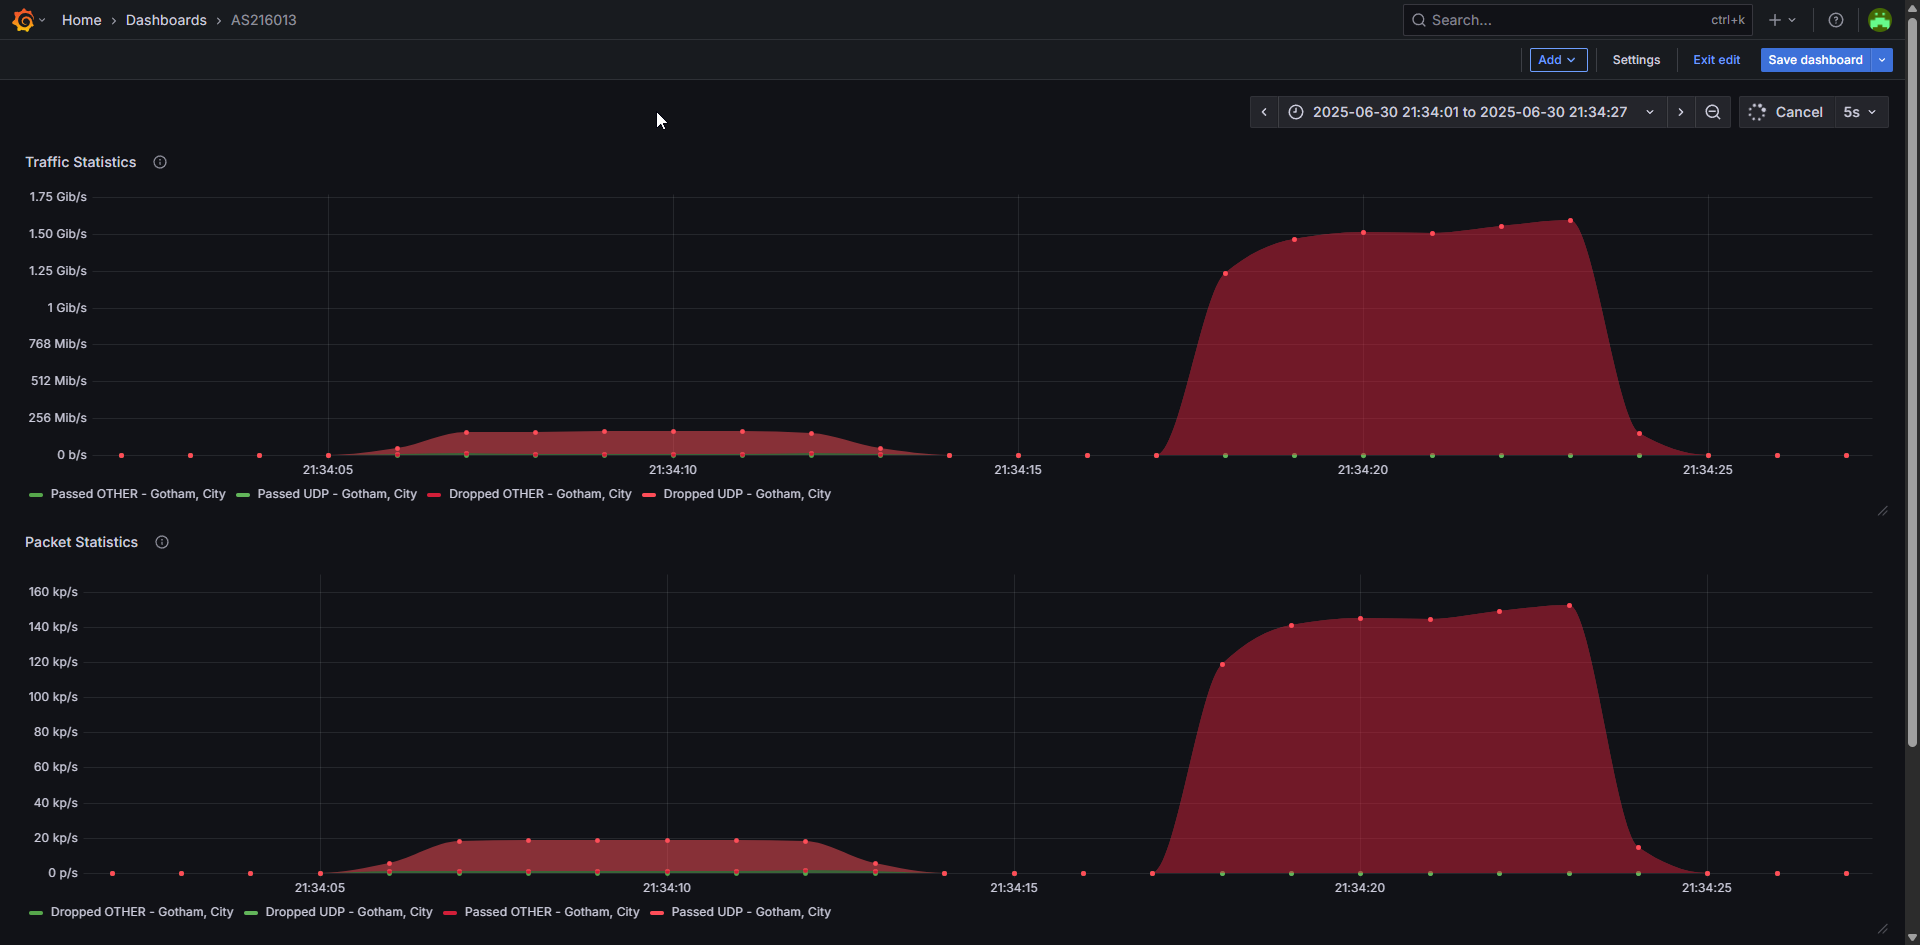
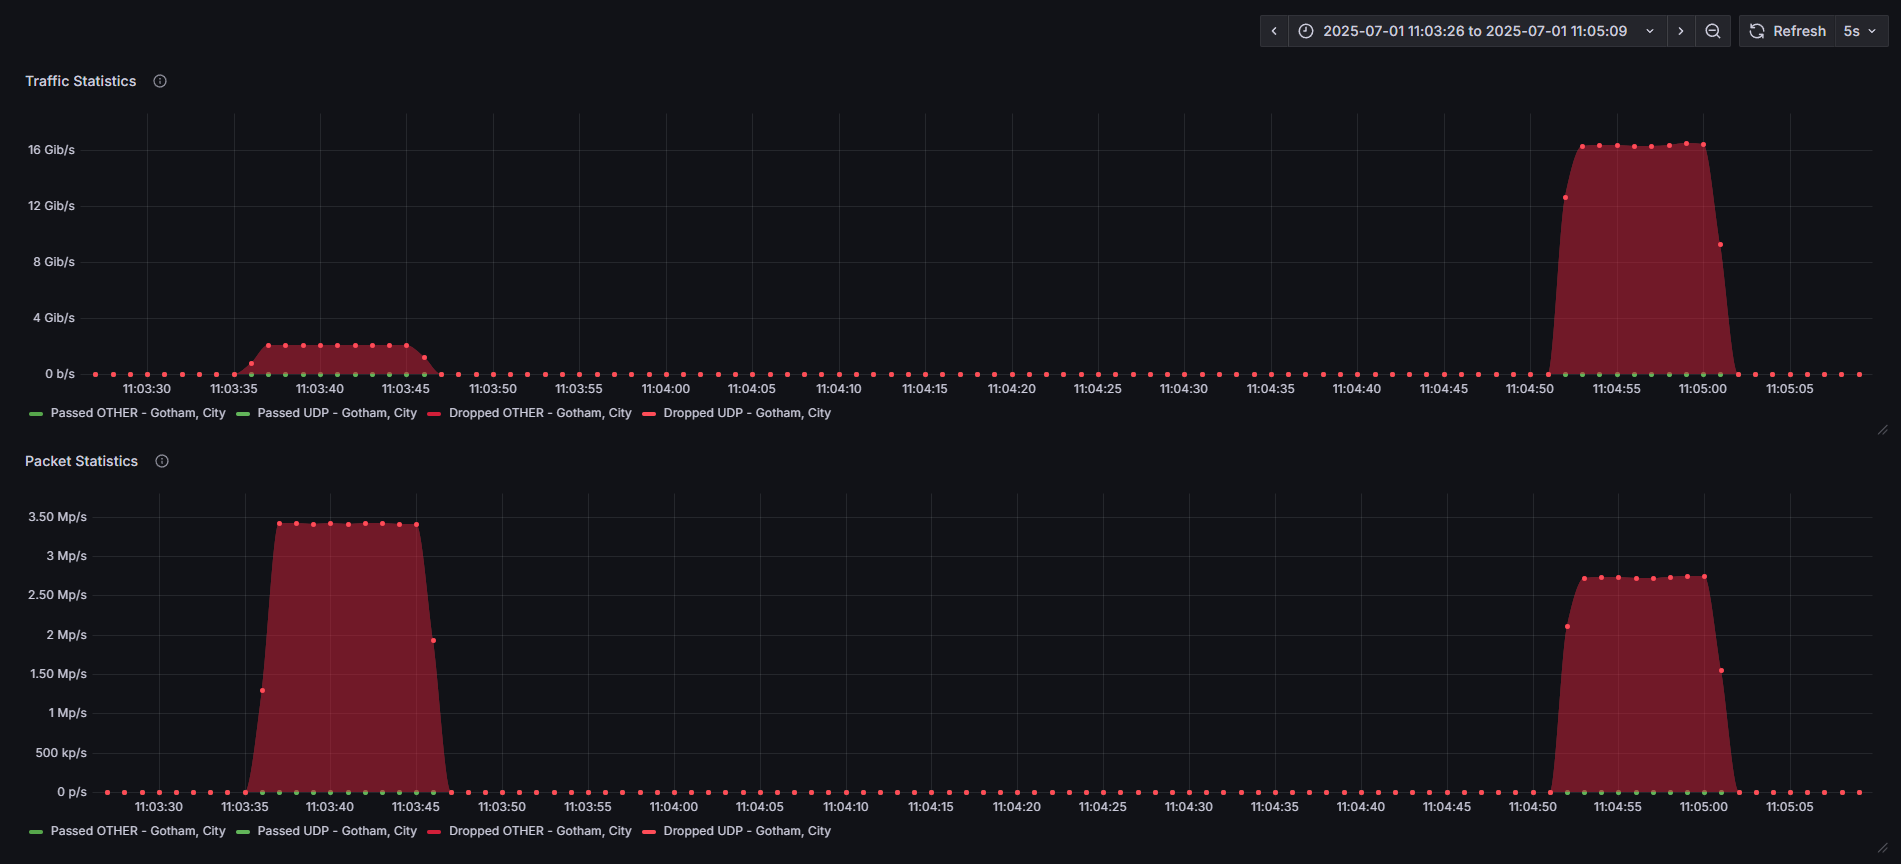
Fixed /s analytics display and changed screenshot
There were 2 resets so sometimes it showed 0
Also you can configure interval to reset now
changed ss cuz ppl said traffic was weak

diff --git a/analytics/init.go b/analytics/init.go
@@ -11,7 +11,11 @@ import (
 
 // Init spawns routines to collect and expose BPF statistics.
 // Metrics have been simplified to reflect the new map layout: UDP and OTHER passes, and UDP drops.
-func Init(Collection *ebpf.Collection, bind string, prometheus bool, pop string) {
+func Init(Collection *ebpf.Collection, bind string, prometheus bool, pop string, intervalSec int) {
+
+	if intervalSec > 0 {
+		StatIntervalSec = intervalSec
+	}
 
 	//Traffic Analytics and Packet Counter logic should probably be reworked but what do you expect, this is open source.
 
@@ -37,17 +41,19 @@ func Init(Collection *ebpf.Collection, bind string, prometheus bool, pop string)
 
 	log.Printf("\033[36m[BEDROCK-XDP] \033[0mStarting Analytics...")
 	SetCollection(Collection)
-	go StartBPS(Collection)
-	go StartPPS(Collection)
 
-	go StartDroppedBPS(Collection)
-	go StartDroppedPPS(Collection)
+	// initialise map references only (no goroutine resets)
+	StartBPS(Collection)
+	StartPPS(Collection)
+	StartDroppedBPS(Collection)
+	StartDroppedPPS(Collection)
 
 	if prometheus {
 		StartPrometheus(bind)
 	}
 
 	ticker := time.NewTicker(1 * time.Second)
+	counterTick := 0
 	for range ticker.C {
 
 		// Gather pass statistics
@@ -101,5 +107,16 @@ func Init(Collection *ebpf.Collection, bind string, prometheus bool, pop string)
 		bcVal2 := GetBlockedCount()
 		log.Printf("\n")
 		log.Printf("\033[36m[ANALYTICS] \033[0mBlocked IPs: \033[36m%d\033[0m\n", bcVal2)
+
+		// After producing metrics, reset counters for next window if we've
+		// reached StatIntervalSec seconds since last reset.
+		counterTick++
+		if counterTick >= StatIntervalSec {
+			ResetPassBPS()
+			ResetPassPPS()
+			ResetDropBPS()
+			ResetDropPPS()
+			counterTick = 0
+		}
 	}
 }

diff --git a/analytics/pass_bps.go b/analytics/pass_bps.go
@@ -1,8 +1,6 @@
 package analytics
 
 import (
-	"time"
-
 	xdp "bedrock-xdp/xdp_utils"
 
 	"github.com/cilium/ebpf"
@@ -18,14 +16,11 @@ var (
 func StartBPS(Collection *ebpf.Collection) {
 	udpBitMap = xdp.GetMap("udp_pass_bps", Collection)
 	otherBitMap = xdp.GetMap("other_pass_bps", Collection)
-
-	ticker := time.NewTicker(1 * time.Second)
-	for range ticker.C {
-		resetBitCount()
-	}
 }
 
-func resetBitCount() {
+// ResetPassBPS zeroes totals and per-IP buckets. Call once per interval **after**
+// reading the stats so analytics never observes a just-reset value.
+func ResetPassBPS() {
 	var resetCount uint64 = 0
 	var totalKey uint32 = 0
 
@@ -43,10 +38,10 @@ func resetBitCount() {
 func GetTotalBPS(protocol string) uint64 {
 	switch protocol {
 	case "udp":
-		return getMapTotalCount(udpBitMap)
+		return getMapTotalCount(udpBitMap) / uint64(StatIntervalSec)
 	case "other":
-		return getMapTotalCount(otherBitMap)
+		return getMapTotalCount(otherBitMap) / uint64(StatIntervalSec)
 	default:
-		return getMapTotalCount(udpBitMap) + getMapTotalCount(otherBitMap)
+		return (getMapTotalCount(udpBitMap) + getMapTotalCount(otherBitMap)) / uint64(StatIntervalSec)
 	}
 }

diff --git a/analytics/pass_pps.go b/analytics/pass_pps.go
@@ -1,8 +1,6 @@
 package analytics
 
 import (
-	"time"
-
 	xdp "bedrock-xdp/xdp_utils"
 
 	"github.com/cilium/ebpf"
@@ -19,14 +17,10 @@ func StartPPS(Collection *ebpf.Collection) {
 	// Fetch BPF maps generated by the kernel program
 	udpPacketMap = xdp.GetMap("udp_pass_pps", Collection)
 	otherPacketMap = xdp.GetMap("other_pass_pps", Collection)
-
-	ticker := time.NewTicker(1 * time.Second)
-	for range ticker.C {
-		resetCount()
-	}
 }
 
-func resetCount() {
+// ResetPassPPS resets pass packet counters after stats are read.
+func ResetPassPPS() {
 	var resetCount uint64 = 0
 	var totalKey uint32 = 0
 
@@ -48,10 +42,10 @@ func resetCount() {
 func GetTotalPPS(protocol string) uint64 {
 	switch protocol {
 	case "udp":
-		return getMapTotalCount(udpPacketMap)
+		return getMapTotalCount(udpPacketMap) / uint64(StatIntervalSec)
 	case "other":
-		return getMapTotalCount(otherPacketMap)
+		return getMapTotalCount(otherPacketMap) / uint64(StatIntervalSec)
 	default:
-		return getMapTotalCount(udpPacketMap) + getMapTotalCount(otherPacketMap)
+		return (getMapTotalCount(udpPacketMap) + getMapTotalCount(otherPacketMap)) / uint64(StatIntervalSec)
 	}
 }

diff --git a/analytics/drop_bps.go b/analytics/drop_bps.go
@@ -2,7 +2,6 @@ package analytics
 
 import (
 	"log"
-	"time"
 
 	xdp "bedrock-xdp/xdp_utils"
 
@@ -19,14 +18,10 @@ var (
 func StartDroppedBPS(Collection *ebpf.Collection) {
 	udpDropBPS = xdp.GetMap("udp_drop_bps", Collection)
 	otherDropBPS = xdp.GetMap("other_drop_bps", Collection)
-
-	ticker := time.NewTicker(1 * time.Second)
-	for range ticker.C {
-		resetDropBitCount()
-	}
 }
 
-func resetDropBitCount() {
+// ResetDropBPS clears dropped bit counters.
+func ResetDropBPS() {
 	var resetCount uint64 = 0
 	var totalKey uint32 = 0
 
@@ -61,10 +56,10 @@ func resetByteCountMap(byteCountMap *ebpf.Map) {
 func GetTotalDroppedBPS(check string) uint64 {
 	switch check {
 	case "udp":
-		return getMapTotalCount(udpDropBPS)
+		return getMapTotalCount(udpDropBPS) / uint64(StatIntervalSec)
 	case "other":
-		return getMapTotalCount(otherDropBPS)
+		return getMapTotalCount(otherDropBPS) / uint64(StatIntervalSec)
 	default:
-		return getMapTotalCount(udpDropBPS) + getMapTotalCount(otherDropBPS)
+		return (getMapTotalCount(udpDropBPS) + getMapTotalCount(otherDropBPS)) / uint64(StatIntervalSec)
 	}
 }

diff --git a/analytics/drop_pps.go b/analytics/drop_pps.go
@@ -1,8 +1,6 @@
 package analytics
 
 import (
-	"time"
-
 	xdp "bedrock-xdp/xdp_utils"
 
 	"github.com/cilium/ebpf"
@@ -18,14 +16,10 @@ var (
 func StartDroppedPPS(Collection *ebpf.Collection) {
 	udpDropPPS = xdp.GetMap("udp_drop_pps", Collection)
 	otherDropPPS = xdp.GetMap("other_drop_pps", Collection)
-
-	ticker := time.NewTicker(1 * time.Second)
-	for range ticker.C {
-		resetDropCount()
-	}
 }
 
-func resetDropCount() {
+// ResetDropPPS clears dropped packet counters.
+func ResetDropPPS() {
 	var resetCount uint64 = 0
 	var totalKey uint32 = 0
 
@@ -43,10 +37,10 @@ func resetDropCount() {
 func GetTotalDroppedPPS(check string) uint64 {
 	switch check {
 	case "udp":
-		return getMapTotalCount(udpDropPPS)
+		return getMapTotalCount(udpDropPPS) / uint64(StatIntervalSec)
 	case "other":
-		return getMapTotalCount(otherDropPPS)
+		return getMapTotalCount(otherDropPPS) / uint64(StatIntervalSec)
 	default:
-		return getMapTotalCount(udpDropPPS) + getMapTotalCount(otherDropPPS)
+		return (getMapTotalCount(udpDropPPS) + getMapTotalCount(otherDropPPS)) / uint64(StatIntervalSec)
 	}
 }

diff --git a/config/init.go b/config/init.go
@@ -43,6 +43,9 @@ blocklist:
   enabled: true # Enable blocklist
   blocktime: 60 # How many seconds to wait before cleaning the blocklist
   global: true # Drop all traffic from blocked IPs regardless of Protocol or Destination
+
+stats:
+  interval: 5 # Seconds – window over which PPS/BPS stats are aggregated
 `
 
 	// Check if the config file already exists

diff --git a/main/main.go b/main/main.go
@@ -32,7 +32,11 @@ func main() {
 	}
 
 	go mitigation.Start(coll)
-	go analytics.Init(coll, cfg.Prometheus.Bind, cfg.Prometheus.Enabled, cfg.Prometheus.Pop)
+	interval := 5
+	if cfg.Stats.Interval > 0 {
+		interval = cfg.Stats.Interval
+	}
+	go analytics.Init(coll, cfg.Prometheus.Bind, cfg.Prometheus.Enabled, cfg.Prometheus.Pop, interval)
 
 	select {}
 }

diff --git a/analytics/interval.go b/analytics/interval.go
@@ -1,0 +1,7 @@
+package analytics
+
+// StatIntervalSec defines how often the eBPF maps are reset and therefore the
+// length of the window over which packet/bit counters accumulate. The console
+// and Prometheus rates are converted to per-second by dividing raw totals by
+// this value.
+var StatIntervalSec = 5

diff --git a/config/data.go b/config/data.go
@@ -26,4 +26,8 @@ type Config struct {
 		Blocktime int  `yaml:"blocktime"`
 		Global    bool `yaml:"global"`
 	} `yaml:"blocklist"`
+
+	Stats struct {
+		Interval int `yaml:"interval"`
+	} `yaml:"stats"`
 }

diff --git a/README.md b/README.md
@@ -112,6 +112,9 @@ blocklist:
   enabled: true # Enable blocklist
   blocktime: 60 # How many seconds to wait before cleaning the blocklist
   global: true # Drop all traffic from blocked IPs regardless of Protocol or Destination
+
+stats:
+  interval: 5 # Seconds – window over which PPS/BPS stats are aggregated
 ```
 
 ---
